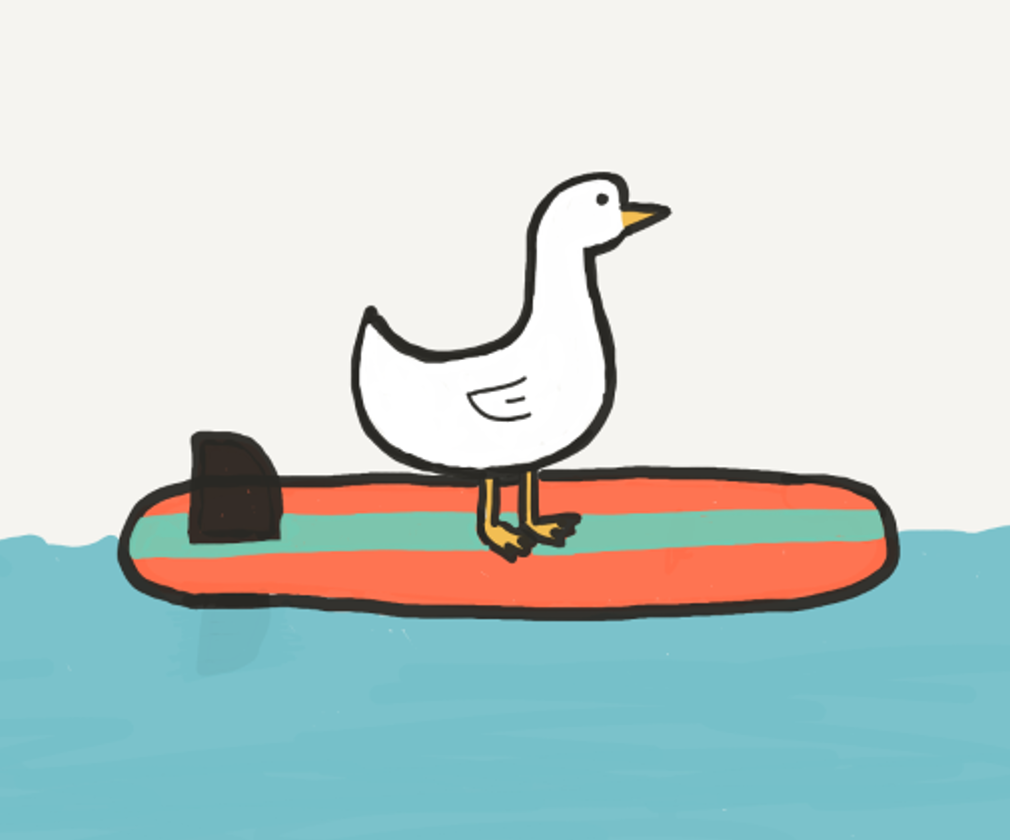
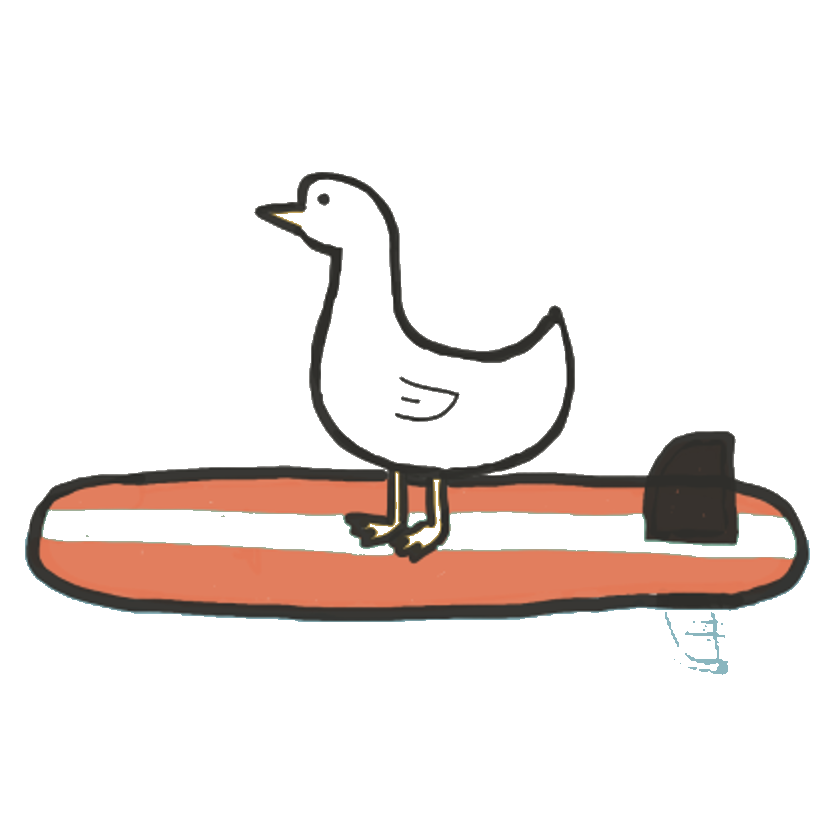
flipped duck drawing and made transparent background

diff --git a/index.html b/index.html
@@ -149,14 +149,14 @@
 <p>Hi! My name is Charlotte! This is my website and I hope you enjoy :)
 <a style="font-size:20px"> &#128151; </a> </p>
 <p>
-  <p class="marquee"> <a style="font-size:40px">
-    <span> <img src="duck-drawing.PNG" alt="duck" width="60" height="54"/> <img src="duck-drawing.PNG" alt="duck" width="60" height="54"/> <img src="duck-drawing.PNG" alt="duck" width="60" height="54"/> <img src="duck-drawing.PNG" alt="duck" width="60" height="54"/> <img src="duck-drawing.PNG" alt="duck" width="60" height="54"/> <img src="duck-drawing.PNG" alt="duck" width="60" height="54"/> <img src="duck-drawing.PNG" alt="duck" width="60" height="54"/> <img src="duck-drawing.PNG" alt="duck" width="60" height="54"/> <img src="duck-drawing.PNG" alt="duck" width="60" height="54"/> <img src="duck-drawing.PNG" alt="duck" width="60" height="54"/> <img src="duck-drawing.PNG" alt="duck" width="60" height="54"/> <img src="duck-drawing.PNG" alt="duck" width="60" height="54"/> <img src="duck-drawing.PNG" alt="duck" width="60" height="54"/> <img src="duck-drawing.PNG" alt="duck" width="60" height="54"/> <img src="duck-drawing.PNG" alt="duck" width="60" height="54"/> <img src="duck-drawing.PNG" alt="duck" width="60" height="54"/> <img src="duck-drawing.PNG" alt="duck" width="60" height="54"/> <img src="duck-drawing.PNG" alt="duck" width="60" height="54"/> <img src="duck-drawing.PNG" alt="duck" width="60" height="54"/> <img src="duck-drawing.PNG" alt="duck" width="60" height="54"/> <img src="duck-drawing.PNG" alt="duck" width="60" height="54"/> <img src="duck-drawing.PNG" alt="duck" width="60" height="54"/> <img src="duck-drawing.PNG" alt="duck" width="60" height="54"/> <img src="duck-drawing.PNG" alt="duck" width="60" height="54"/> <img src="duck-drawing.PNG" alt="duck" width="60" height="54"/> <img src="duck-drawing.PNG" alt="duck" width="60" height="54"/> <img src="duck-drawing.PNG" alt="duck" width="60" height="54"/> <img src="duck-drawing.PNG" alt="duck" width="60" height="54"/> <img src="duck-drawing.PNG" alt="duck" width="60" height="54"/>&nbsp;</span></a>
+  <p class="marquee">
+    <span> <img src="duck-drawing.PNG" alt="duck" width="80" height="80"/> <img src="duck-drawing.PNG" alt="duck" width="80" height="80"/> <img src="duck-drawing.PNG" alt="duck" width="80" height="80"/> <img src="duck-drawing.PNG" alt="duck" width="80" height="80"/> <img src="duck-drawing.PNG" alt="duck" width="80" height="80"/> <img src="duck-drawing.PNG" alt="duck" width="80" height="80"/> <img src="duck-drawing.PNG" alt="duck" width="80" height="80"/> <img src="duck-drawing.PNG" alt="duck" width="80" height="80"/> <img src="duck-drawing.PNG" alt="duck" width="80" height="80"/> <img src="duck-drawing.PNG" alt="duck" width="80" height="80"/> <img src="duck-drawing.PNG" alt="duck" width="80" height="80"/> <img src="duck-drawing.PNG" alt="duck" width="80" height="80"/> <img src="duck-drawing.PNG" alt="duck" width="80" height="80"/> <img src="duck-drawing.PNG" alt="duck" width="80" height="80"/> <img src="duck-drawing.PNG" alt="duck" width="80" height="80"/> <img src="duck-drawing.PNG" alt="duck" width="80" height="80"/> <img src="duck-drawing.PNG" alt="duck" width="80" height="80"/> <img src="duck-drawing.PNG" alt="duck" width="80" height="80"/> <img src="duck-drawing.PNG" alt="duck" width="80" height="80"/> <img src="duck-drawing.PNG" alt="duck" width="80" height="80"/> <img src="duck-drawing.PNG" alt="duck" width="80" height="80"/> <img src="duck-drawing.PNG" alt="duck" width="80" height="80"/> <img src="duck-drawing.PNG" alt="duck" width="80" height="80"/> <img src="duck-drawing.PNG" alt="duck" width="80" height="80"/> <img src="duck-drawing.PNG" alt="duck" width="80" height="80"/> <img src="duck-drawing.PNG" alt="duck" width="80" height="80"/> <img src="duck-drawing.PNG" alt="duck" width="80" height="80"/> <img src="duck-drawing.PNG" alt="duck" width="80" height="80"/> <img src="duck-drawing.PNG" alt="duck" width="80" height="80"/>&nbsp;</span></a>
   </p>
-  <p class="marquee marquee2"> <a style="font-size:40px">
-    <span><img src="duck-drawing.PNG" alt="duck" width="60" height="54"/> <img src="duck-drawing.PNG" alt="duck" width="60" height="54"/> <img src="duck-drawing.PNG" alt="duck" width="60" height="54"/> <img src="duck-drawing.PNG" alt="duck" width="60" height="54"/> <img src="duck-drawing.PNG" alt="duck" width="60" height="54"/> <img src="duck-drawing.PNG" alt="duck" width="60" height="54"/> <img src="duck-drawing.PNG" alt="duck" width="60" height="54"/> <img src="duck-drawing.PNG" alt="duck" width="60" height="54"/> <img src="duck-drawing.PNG" alt="duck" width="60" height="54"/> <img src="duck-drawing.PNG" alt="duck" width="60" height="54"/> <img src="duck-drawing.PNG" alt="duck" width="60" height="54"/> <img src="duck-drawing.PNG" alt="duck" width="60" height="54"/> <img src="duck-drawing.PNG" alt="duck" width="60" height="54"/> <img src="duck-drawing.PNG" alt="duck" width="60" height="54"/> <img src="duck-drawing.PNG" alt="duck" width="60" height="54"/> <img src="duck-drawing.PNG" alt="duck" width="60" height="54"/> <img src="duck-drawing.PNG" alt="duck" width="60" height="54"/> <img src="duck-drawing.PNG" alt="duck" width="60" height="54"/> <img src="duck-drawing.PNG" alt="duck" width="60" height="54"/> <img src="duck-drawing.PNG" alt="duck" width="60" height="54"/> <img src="duck-drawing.PNG" alt="duck" width="60" height="54"/> <img src="duck-drawing.PNG" alt="duck" width="60" height="54"/> <img src="duck-drawing.PNG" alt="duck" width="60" height="54"/> <img src="duck-drawing.PNG" alt="duck" width="60" height="54"/> <img src="duck-drawing.PNG" alt="duck" width="60" height="54"/> <img src="duck-drawing.PNG" alt="duck" width="60" height="54"/> <img src="duck-drawing.PNG" alt="duck" width="60" height="54"/> <img src="duck-drawing.PNG" alt="duck" width="60" height="54"/> <img src="duck-drawing.PNG" alt="duck" width="60" height="54"/>&nbsp;</span></a>
+  <p class="marquee marquee2"> 
+    <span><img src="duck-drawing.PNG" alt="duck" width="80" height="80"/> <img src="duck-drawing.PNG" alt="duck" width="80" height="80"/> <img src="duck-drawing.PNG" alt="duck" width="80" height="80"/> <img src="duck-drawing.PNG" alt="duck" width="80" height="80"/> <img src="duck-drawing.PNG" alt="duck" width="80" height="80"/> <img src="duck-drawing.PNG" alt="duck" width="80" height="80"/> <img src="duck-drawing.PNG" alt="duck" width="80" height="80"/> <img src="duck-drawing.PNG" alt="duck" width="80" height="80"/> <img src="duck-drawing.PNG" alt="duck" width="80" height="80"/> <img src="duck-drawing.PNG" alt="duck" width="80" height="80"/> <img src="duck-drawing.PNG" alt="duck" width="80" height="80"/> <img src="duck-drawing.PNG" alt="duck" width="80" height="80"/> <img src="duck-drawing.PNG" alt="duck" width="80" height="80"/> <img src="duck-drawing.PNG" alt="duck" width="80" height="80"/> <img src="duck-drawing.PNG" alt="duck" width="80" height="80"/> <img src="duck-drawing.PNG" alt="duck" width="80" height="80"/> <img src="duck-drawing.PNG" alt="duck" width="80" height="80"/> <img src="duck-drawing.PNG" alt="duck" width="80" height="80"/> <img src="duck-drawing.PNG" alt="duck" width="80" height="80"/> <img src="duck-drawing.PNG" alt="duck" width="80" height="80"/> <img src="duck-drawing.PNG" alt="duck" width="80" height="80"/> <img src="duck-drawing.PNG" alt="duck" width="80" height="80"/> <img src="duck-drawing.PNG" alt="duck" width="80" height="80"/> <img src="duck-drawing.PNG" alt="duck" width="80" height="80"/> <img src="duck-drawing.PNG" alt="duck" width="80" height="80"/> <img src="duck-drawing.PNG" alt="duck" width="80" height="80"/> <img src="duck-drawing.PNG" alt="duck" width="80" height="80"/> <img src="duck-drawing.PNG" alt="duck" width="80" height="80"/> <img src="duck-drawing.PNG" alt="duck" width="80" height="80"/>&nbsp;</span></a>
   </p>
 </p>
-<!-- <p> <marquee><img src="duck-drawing.PNG" alt="duck" width="60" height="54"/> </marquee></p> -->
+<!-- <p> <marquee><img src="duck-drawing.PNG" alt="duck" width="80" height="80"/> </marquee></p> -->
 <p style="color:#e7ddff"> hello </p>
 <p style="color:#e7ddff"> hello </p>
 <p><img src="https://c.tenor.com/6O4E2Sali38AAAAd/duck-swing.gif" alt="I like ducks"></p>
@@ -171,23 +171,23 @@
 <!-- <a style="font-size:70px"> &#128511; &#128511; &#128511; &#128511; </a>
 <a style="font-size:30px">
 <p></p>
-<img src="duck-drawing.PNG" alt="duck" width="60" height="54"/> 
+<img src="duck-drawing.PNG" alt="duck" width="80" height="80"/> 
 <p></p>
-<img src="duck-drawing.PNG" alt="duck" width="60" height="54"/> <img src="duck-drawing.PNG" alt="duck" width="60" height="54"/> 
+<img src="duck-drawing.PNG" alt="duck" width="80" height="80"/> <img src="duck-drawing.PNG" alt="duck" width="80" height="80"/> 
 <p></p>
-<img src="duck-drawing.PNG" alt="duck" width="60" height="54"/> <img src="duck-drawing.PNG" alt="duck" width="60" height="54"/> <img src="duck-drawing.PNG" alt="duck" width="60" height="54"/>
+<img src="duck-drawing.PNG" alt="duck" width="80" height="80"/> <img src="duck-drawing.PNG" alt="duck" width="80" height="80"/> <img src="duck-drawing.PNG" alt="duck" width="80" height="80"/>
 <p></p>
-<img src="duck-drawing.PNG" alt="duck" width="60" height="54"/> <img src="duck-drawing.PNG" alt="duck" width="60" height="54"/> <img src="duck-drawing.PNG" alt="duck" width="60" height="54"/> <img src="duck-drawing.PNG" alt="duck" width="60" height="54"/>
+<img src="duck-drawing.PNG" alt="duck" width="80" height="80"/> <img src="duck-drawing.PNG" alt="duck" width="80" height="80"/> <img src="duck-drawing.PNG" alt="duck" width="80" height="80"/> <img src="duck-drawing.PNG" alt="duck" width="80" height="80"/>
 <p></p>
-<img src="duck-drawing.PNG" alt="duck" width="60" height="54"/> <img src="duck-drawing.PNG" alt="duck" width="60" height="54"/> <img src="duck-drawing.PNG" alt="duck" width="60" height="54"/> <img src="duck-drawing.PNG" alt="duck" width="60" height="54"/> <img src="duck-drawing.PNG" alt="duck" width="60" height="54"/>
+<img src="duck-drawing.PNG" alt="duck" width="80" height="80"/> <img src="duck-drawing.PNG" alt="duck" width="80" height="80"/> <img src="duck-drawing.PNG" alt="duck" width="80" height="80"/> <img src="duck-drawing.PNG" alt="duck" width="80" height="80"/> <img src="duck-drawing.PNG" alt="duck" width="80" height="80"/>
 <p></p>
-<img src="duck-drawing.PNG" alt="duck" width="60" height="54"/> <img src="duck-drawing.PNG" alt="duck" width="60" height="54"/> <img src="duck-drawing.PNG" alt="duck" width="60" height="54"/> <img src="duck-drawing.PNG" alt="duck" width="60" height="54"/>
+<img src="duck-drawing.PNG" alt="duck" width="80" height="80"/> <img src="duck-drawing.PNG" alt="duck" width="80" height="80"/> <img src="duck-drawing.PNG" alt="duck" width="80" height="80"/> <img src="duck-drawing.PNG" alt="duck" width="80" height="80"/>
 <p></p>
-<img src="duck-drawing.PNG" alt="duck" width="60" height="54"/> <img src="duck-drawing.PNG" alt="duck" width="60" height="54"/> <img src="duck-drawing.PNG" alt="duck" width="60" height="54"/>
+<img src="duck-drawing.PNG" alt="duck" width="80" height="80"/> <img src="duck-drawing.PNG" alt="duck" width="80" height="80"/> <img src="duck-drawing.PNG" alt="duck" width="80" height="80"/>
 <p></p>
-<img src="duck-drawing.PNG" alt="duck" width="60" height="54"/> <img src="duck-drawing.PNG" alt="duck" width="60" height="54"/>
+<img src="duck-drawing.PNG" alt="duck" width="80" height="80"/> <img src="duck-drawing.PNG" alt="duck" width="80" height="80"/>
 <p></p>
-<img src="duck-drawing.PNG" alt="duck" width="60" height="54"/>
+<img src="duck-drawing.PNG" alt="duck" width="80" height="80"/>
 <p></p>
 </a> -->
 <!-- <SPAN STYLE="background-image: url(https://upload.wikimedia.org/wikipedia/commons/f/f5/Cool_waters_of_the_turquoise_blue_Aegean_Sea_-_Ayval%C4%B1k_-_panoramio.jpg)">NoBoringHighlight…</SPAN> -->
